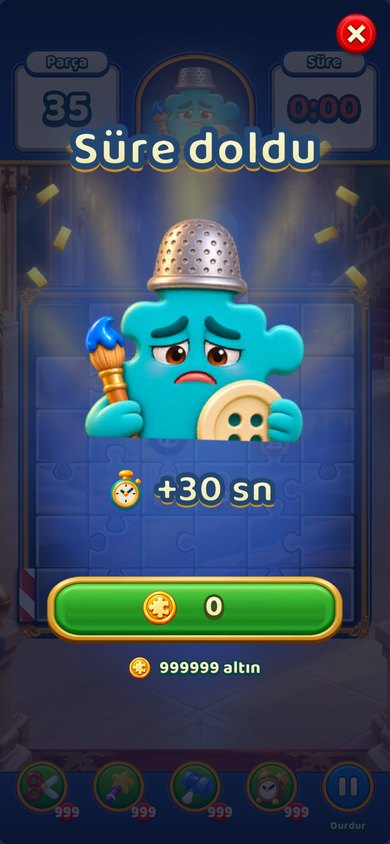
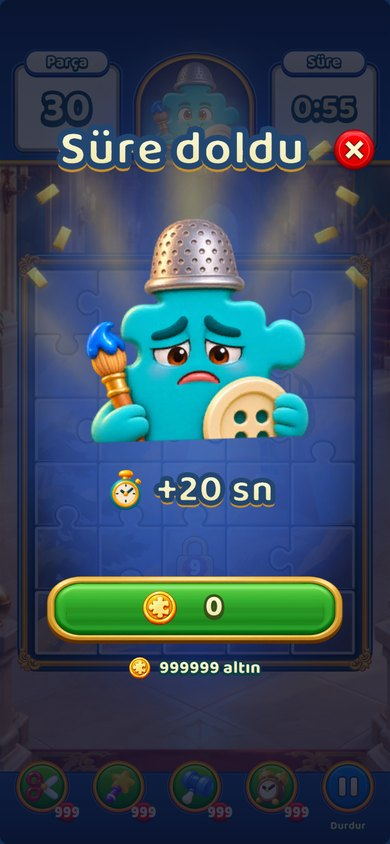
PM_74: continue close button on the title row; status and report final

diff --git a/Assets/_Game/Presentation/Ui/LossView74.cs b/Assets/_Game/Presentation/Ui/LossView74.cs
@@ -51,11 +51,11 @@ namespace ReverseSolver.Presentation
             t.transform.localPosition = Draw.W(at); return t;
         }
 
-        void Title(string text)
+        void Title(string text, float width = 340)
         {
             _title = Group("title");
-            _title.localPosition = Draw.W(At(195, 150));
-            TextView.Create(_title, "title", text, 50 * _k, Palette.Cream, order: _order + 6).Title3D().FitWidth(340 * _k, 30 * _k);
+            _title.localPosition = Draw.W(At(width < 340 ? 182 : 195, 150));
+            TextView.Create(_title, "title", text, 50 * _k, Palette.Cream, order: _order + 6).Title3D().FitWidth(width * _k, 26 * _k);
         }
 
         void Jigo(float y, float size)
@@ -109,7 +109,7 @@ namespace ReverseSolver.Presentation
             var v = new LossView74(parent, screen, order, true, offer.Affordable || preview);
             v._showNo = showNo;
             bool time = offer.Kind == ContinueKind.Time;
-            v.Title(time ? Lang.T("Time's up", "Süre doldu") : Lang.T("Bomb exploded", "Bomba patladı"));
+            v.Title(time ? Lang.T("Time's up", "Süre doldu") : Lang.T("Bomb exploded", "Bomba patladı"), 250);   // room for the close button
             v.Jigo(330, 230);
             string benefit = time ? string.Format(Lang.T("+{0} s", "+{0} sn"), offer.Seconds) : Lang.T("Reset the bomb", "Bombayı sıfırla");
             var b = v.Text(v._root, benefit, v.At(time ? 215 : 195, 490), 40, 7).Title3D();
@@ -121,8 +121,8 @@ namespace ReverseSolver.Presentation
             v.Text(v._buttons, offer.Price.ToString(), v.At(214, 607), 30, 8).Heading(TextView.RimGreen);
             Art54.Place(v._root, "devam_v2/continue-coin", v.At(140, 668), Vector2.one * 24 * v._k, order + 7);
             v._coins = v.Text(v._root, string.Format(Lang.T("{0} coins", "{0} altın"), coins), v.At(210, 668), 18, 7).Heading(TextView.RimTeal);
-            // close: top right, clear of the HUD's time box
-            var close = new Vector2(screen.x - 34, Mathf.Max(safe.y, 0) + 34);
+            // close: on the title row, at the right (it used to sit on the HUD's Time box)
+            var close = new Vector2(Mathf.Min(screen.x - 28, v.At(354, 150).x), v.At(354, 150).y);
             Art54.Place(v._root, "devam_v2/close-button", close, Vector2.one * 48, order + 7);
             Art54.Place(v._root, "devam_v2/icon-close", close, Vector2.one * 25, order + 8);
             v._close = new Rect(close - Vector2.one * 26, Vector2.one * 52);

diff --git a/docs/PROJE_DURUMU.md b/docs/PROJE_DURUMU.md
@@ -150,6 +150,6 @@ Son güncelleme: 12 Kasım 2026 (Codex devir çalışması). Yeni sohbette önce
    - **PM_70 BİTTİ (14 Kasım):** zorluk modeli v2 kodda (`DifficultyModelV2`) ve üreticide; p22 11–40 model v2'ye göre ayarlandı (zor 21/23/33/35/40, nefes 22/24/39, 40 = ,33), tasarım kuralları kitapta. p22 `0d63cc99`, EditMode 721/0, verify 4/4.
    - **PM_72 BİTTİ (15 Kasım):** 1. bölümde eski el/ok/kararma kalıcı olarak yok (kaynak: kayıttaki eski öğretici, keepPrelude ile eski açılışı geri getiriyordu; PlayMode testi 6 link). Menü üst şeridi yerine krem haplar. Kombo yerine her çıkışta altın kıvılcım + tık + hafif titreşim (bomba: orta + sönen bomba; kilit: kırılma sesi; iPhone Safari'de titreşim yok). `&test=1`: 1–40 açık, booster 999, altın 999 999, devam ücretsiz, kayıt ve telemetri yok. T50 kazanma/harita A/B/C: `docs/art/task50/SECENEKLER.md` (Zeyd seçecek). EditMode 724/0, PlayMode 4/4, verify 4/4.
    - **PM_73 + PM_71 BİTTİ (16 Kasım):** p22'de kazanma ekranı T50 B (kartsız, +50 oyunun fontuyla, 1,15 sn giriş, dokununca biter; sandık da aynı dilde), harita T50 C (yapboz düğmeler, %70 sallanan Jigo, nefes alan şu anki düğme, altın noktalı yol), kayma izi (`&iz=serit`/`hayalet`), nefes anı (bomba/kilit/zincir/son parça, `&nefes=onemli/hep/yok`), bomba kartı gerçek sayaç, Süre doldu kurdelesiz. PM_71: `PWin1Blended` (pt1 verisiyle), 8 bölüm ayarlandı (S38 ,39→,54, S17 ,87→,61, S10 ,85→,63 …). EditMode 733/0, PlayMode 4/4, verify canlı 4/4, gh-pages `a15a03d2`.
-   - **PM_74 BİTTİ (16 Kasım gece):** yeni önizleme **p23** (p22 yedek). Test linkinde booster dersi donması düzeldi; tahta kenardan ayrıldı; Jigo kemerin içinde; tek "Oyna · Bölüm N"; 4 booster yeniden (her biri 3 fikir, Codex xhigh); menü/kazanma → resme dalış (≈1 sn); kayıp, devam ve isim ekranları kazanma diliyle; HUD başlığı kurdelesiz. Rapor `docs/art/pm74/RAPOR.md`. Zeyd seçecek: booster fikirleri, HUD başlığı, saat kuralı (durdur / +10 sn).
+   - **PM_74 BİTTİ (16 Kasım gece):** yeni önizleme **p23** (p22 yedek), son hâli gh-pages'te, verify canlı 4/4. Test linkinde booster dersi donması düzeldi; tahta kenardan ayrıldı; Jigo kemerin içinde; tek "Oyna · Bölüm N"; 4 booster yeniden (her biri 3 fikir, Codex xhigh); menü/kazanma/hikâye → resme dalış (≈1 sn, ilk açılış donması ısınmayla giderildi); kayıp, devam, isim ve Durdur kazanma diliyle; HUD başlığı kurdelesiz. Rapor `docs/art/pm74/RAPOR.md`. Zeyd seçecek: booster fikirleri, HUD başlığı, saat kuralı (durdur / +10 sn).
    - Sonra (bölüm okulu): 07 için tuzak + FunSim kararı → 3, 10, 14 tanıtımları → kilitli bölge prototipi → son 10 bölüme nefes.
 7. **Oyun üretim kiti — ERTELENDİ (9 Kasım, token):** envanter hazır `docs/kit/KIT_ENVANTER.md` (tamamı ~190–340 saat). Karar: Faz 0 (şablon + süreç kitabı, ~25–45 saat) pt1 v2 ve TestFlight sonrası; Faz 1 (çekirdek) yalnız 2. oyun başlarken, ihtiyaç kadar. O zamana kadar: her PM işinde öğrenilen genel dersi `docs/kit/KIT_NOTLARI.md`'ye tek satır ekle. 2. oyun adayı: sıralama bulmacası (karar Zeyd'de).

diff --git a/docs/art/task29/ENTEGRASYON_RAPOR.md b/docs/art/task29/ENTEGRASYON_RAPOR.md
@@ -900,5 +900,6 @@ Yeni önizleme `p23/` (p22 yedek). Ayrıntı ve önce/sonra görüntüler: `docs
 - Durdur kartının arkasında mavi ışık (örtü bir sıra alta indi).
 - Booster seçim ikonu başlık rozetinin solunda (`&secim=eski` eski düzen).
 - Hikâye → 1. bölüm: `DiveOutOfStory`, geri çekilme video solduktan sonra (0,32 sn). `Dive74` zamanlayıcısı ilk karede başlıyor (uzun ilk kare hareketi atlatmasın).
+- Devam ekranında X başlık satırının sağında (HUD'daki Süre kutusuna binmiyordu artık); başlık 250 pt'ye sığdırılıyor.
 
 **Doğrulanmadı:** iPhone'da his, FPS ve titreşim.
